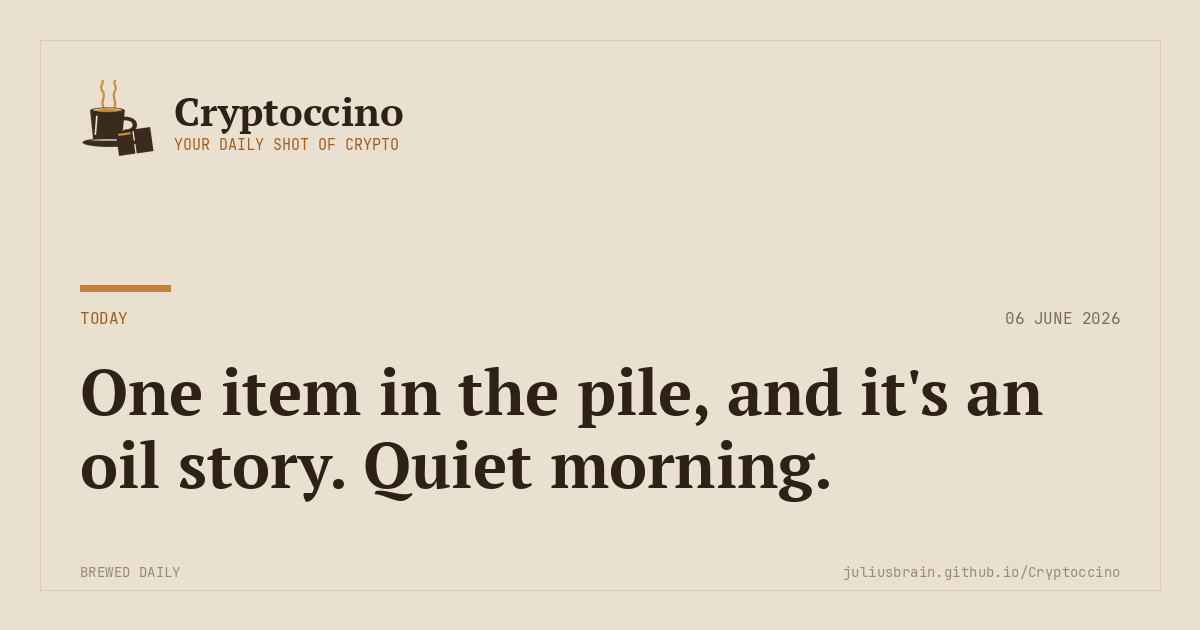
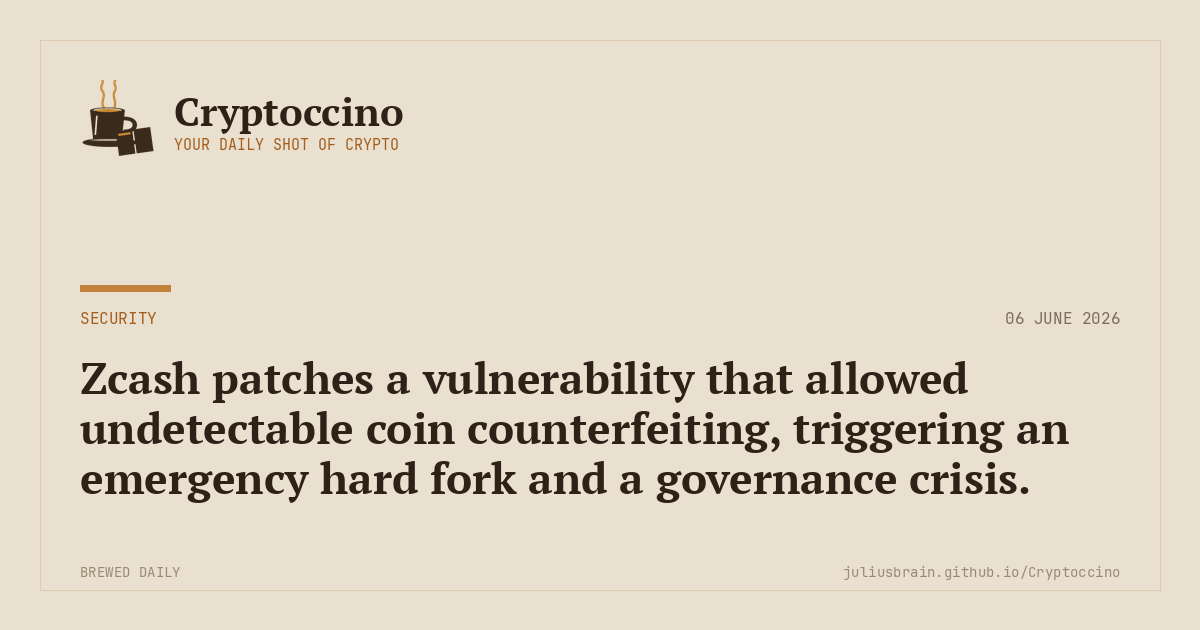
Recover today's rich issue + prevent second-run overwrite
What happened: two daily-brew runs fired today. The first (04:55
UTC, manual trigger) produced a rich issue — lead, 4 beats with
12 items, 5 brewing — and marked 71 items as seen. The second
(05:17 UTC, cron-job.org test trigger) found only 1 new item in
the 22-minute gap, curated a thin "One item in the pile" issue,
and overwrote both the post and the hero card.

Recovery:
- _posts/2026-06-06-cryptoccino.md restored from commit 2d7285b.
- assets/cards/2026-06-06.png restored from the same commit.

Prevention:
- pipeline/run.py main() now bails immediately if today's post
  already exists on disk, logging "first-run-wins". A second
  trigger (cron-job.org + manual + GitHub schedule racing) becomes
  a no-op rather than overwriting an earlier rich issue with a
  thinner one curated from the few items that landed since.
- TestEarlyExit.test_skips_when_todays_post_already_exists covers
  the new guard. test_rerun_is_idempotent updated to check the new
  "first-run-wins" log line (was "Nothing new today" from the
  filter-empty path, which now isn't reached on a same-day rerun).

118 tests pass (was 117).

Changed region(s): [[0.0617, 0.573, 0.8942, 0.8143], [0.0617, 0.4825, 0.1233, 0.5127]]

diff --git a/tests/integration/test_run.py b/tests/integration/test_run.py
@@ -121,6 +121,32 @@ class TestEarlyExit:
         assert "Nothing new today" in caplog.text
         assert list(posts_dir.glob("*.md")) == []
 
+    def test_skips_when_todays_post_already_exists(
+        self, fresh_db, posts_dir, monkeypatch, caplog
+    ):
+        # Drop a stub post for today on disk — simulates a previous run
+        # having already written one. The second run must no-op rather
+        # than overwriting it.
+        import datetime as dt
+        today_post = posts_dir / f"{dt.date.today().isoformat()}-cryptoccino.md"
+        today_post.write_text("already published")
+
+        boom = MagicMock(side_effect=AssertionError("must not be called"))
+        monkeypatch.setattr(run_mod, "fetch_feeds", boom)
+        monkeypatch.setattr(run_mod, "filter_new", boom)
+        monkeypatch.setattr(run_mod, "curate", boom)
+        monkeypatch.setattr(run_mod, "fetch_prices", boom)
+        monkeypatch.setattr(run_mod, "render_post", boom)
+        monkeypatch.setattr(run_mod, "mark_seen", boom)
+
+        caplog.set_level(logging.INFO)
+        run_mod.main()
+
+        assert "first-run-wins" in caplog.text
+        # Stub content untouched.
+        assert today_post.read_text() == "already published"
+        boom.assert_not_called()
+
 
 class TestHappyPath:
     def test_writes_post_with_expected_sections(
@@ -155,16 +181,18 @@ class TestHappyPath:
         _stub_externals(monkeypatch, [SAMPLE_ITEM])
         run_mod.main()
 
-        # Second run: items already seen, must early-exit.
+        # Second run on the same day: today's post already on disk,
+        # must early-exit via the first-run-wins guard before fetch.
         caplog.clear()
         boom = MagicMock(side_effect=AssertionError("must not be called"))
+        monkeypatch.setattr(run_mod, "fetch_feeds", boom)
         monkeypatch.setattr(run_mod, "curate", boom)
         monkeypatch.setattr(run_mod, "render_post", boom)
         monkeypatch.setattr(run_mod, "fetch_prices", boom)
         caplog.set_level(logging.INFO)
         run_mod.main()
 
-        assert "Nothing new today" in caplog.text
+        assert "first-run-wins" in caplog.text
 
 
 class TestMarketsResilience:

diff --git a/pipeline/run.py b/pipeline/run.py
@@ -30,7 +30,19 @@ FEEDS_CONFIG = Path("config/feeds.yaml")
 
 
 def main():
-    """Run one full daily cycle and write today's Jekyll post."""
+    """Run one full daily cycle and write today's Jekyll post.
+
+    First-run-wins per day: if today's post already exists on disk, the
+    run is a no-op. Guards against a second trigger on the same day
+    (cron-job.org + manual + GitHub schedule races) overwriting a rich
+    earlier issue with a thinner one curated from the few items that
+    happened to land in between.
+    """
+    today_post = Path("_posts") / f"{date.today().isoformat()}-cryptoccino.md"
+    if today_post.exists():
+        logger.info("%s already exists, skipping run (first-run-wins).", today_post)
+        return
+
     logger.info("Initialising seen-state DB.")
     init_db()
 

diff --git a/_posts/2026-06-06-cryptoccino.md b/_posts/2026-06-06-cryptoccino.md
@@ -3,41 +3,91 @@ layout: issue
 title: "Cryptoccino — Saturday 06 June 2026"
 date: 2026-06-06
 issue_date: 2026-06-06
-description: "One item in the pile, and it's an oil story. Quiet morning."
+description: "Bitcoin under $60k, Zcash had a counterfeiting bug, and the tax bills are queuing up. Espresso warranted."
 card: /assets/cards/2026-06-06.png
 ---
 
 <div class="pour-band" markdown="1">
 
-> **The Pour.** One item in the pile, and it's an oil story. Quiet morning.
+> **The Pour.** Bitcoin under $60k, Zcash had a counterfeiting bug, and the tax bills are queuing up. Espresso warranted.
 >
-> **Today.** Crude stockpiles at a two-decade low as Iran tensions simmer _Markets_ · Nothing on the Security Desk today _Security Desk_ · Nothing in Projects & Money today _Projects & Money_.
+> **Today.** Bitcoin breaks below $60k on strong jobs data as Zcash fallout shakes confidence _Markets_ · Zcash emergency hard fork after critical undetectable counterfeiting vulnerability disclosed _Security Desk_ · Securitize clears SEC registration hurdle, setting NYSE listing path as SECZ _Projects & Money_.
 {: .pour}
 
 <section class="prices">
   <p class="prices-label">Prices</p>
   <ul class="chips">
-    <li class="chip"><span class="chip-left"><span class="ticker">BTC</span><span class="price">$59,980</span></span><span class="chip-right"><span class="change down">−5.2%</span><svg class="spark" viewBox="0 0 82 24" width="82" height="24" preserveAspectRatio="none"><polyline fill="none" stroke="#B14A33" stroke-width="1.5" stroke-linecap="round" stroke-linejoin="round" points="1.0,1.9 3.8,1.9 6.5,1.9 9.3,1.4 12.0,1.5 14.8,1.0 17.6,1.5 20.3,1.8 23.1,1.7 25.8,1.6 28.6,2.9 31.3,4.8 34.1,4.9 36.9,5.3 39.6,7.1 42.4,8.6 45.1,11.0 47.9,12.0 50.7,12.5 53.4,11.3 56.2,13.1 58.9,13.6 61.7,15.7 64.4,16.7 67.2,16.3 70.0,16.7 72.7,17.1 75.5,17.7 78.2,19.2 81.0,23.0"/><circle cx="81.0" cy="23.0" r="1.8" fill="#B14A33"/></svg></span></li>
-    <li class="chip"><span class="chip-left"><span class="ticker">ETH</span><span class="price">$1,521</span></span><span class="chip-right"><span class="change down">−12.0%</span><svg class="spark" viewBox="0 0 82 24" width="82" height="24" preserveAspectRatio="none"><polyline fill="none" stroke="#B14A33" stroke-width="1.5" stroke-linecap="round" stroke-linejoin="round" points="1.0,1.8 3.8,1.8 6.5,1.8 9.3,1.3 12.0,1.5 14.8,1.0 17.6,1.5 20.3,2.1 23.1,2.2 25.8,2.0 28.6,3.3 31.3,4.0 34.1,2.3 36.9,2.7 39.6,3.4 42.4,3.6 45.1,6.1 47.9,9.0 50.7,9.4 53.4,7.8 56.2,10.2 58.9,9.6 61.7,11.3 64.4,12.9 67.2,12.9 70.0,12.9 72.7,13.8 75.5,17.4 78.2,18.2 81.0,23.0"/><circle cx="81.0" cy="23.0" r="1.8" fill="#B14A33"/></svg></span></li>
-    <li class="chip"><span class="chip-left"><span class="ticker">BNB</span><span class="price">$563</span></span><span class="chip-right"><span class="change down">−5.6%</span><svg class="spark" viewBox="0 0 82 24" width="82" height="24" preserveAspectRatio="none"><polyline fill="none" stroke="#B14A33" stroke-width="1.5" stroke-linecap="round" stroke-linejoin="round" points="1.0,12.3 3.8,9.8 6.5,8.9 9.3,4.3 12.0,3.3 14.8,1.0 17.6,2.8 20.3,2.7 23.1,4.1 25.8,4.5 28.6,6.8 31.3,7.5 34.1,5.9 36.9,6.6 39.6,7.6 42.4,8.5 45.1,9.8 47.9,11.8 50.7,13.7 53.4,13.0 56.2,14.7 58.9,14.6 61.7,15.9 64.4,18.0 67.2,17.8 70.0,17.7 72.7,18.1 75.5,19.4 78.2,19.5 81.0,23.0"/><circle cx="81.0" cy="23.0" r="1.8" fill="#B14A33"/></svg></span></li>
-    <li class="chip"><span class="chip-left"><span class="ticker">SOL</span><span class="price">$60.88</span></span><span class="chip-right"><span class="change down">−9.9%</span><svg class="spark" viewBox="0 0 82 24" width="82" height="24" preserveAspectRatio="none"><polyline fill="none" stroke="#B14A33" stroke-width="1.5" stroke-linecap="round" stroke-linejoin="round" points="1.0,2.0 3.8,1.7 6.5,2.0 9.3,1.4 12.0,1.7 14.8,1.0 17.6,1.5 20.3,2.4 23.1,2.5 25.8,1.6 28.6,3.5 31.3,4.6 34.1,3.2 36.9,3.5 39.6,5.1 42.4,5.7 45.1,8.0 47.9,11.1 50.7,11.2 53.4,9.5 56.2,12.5 58.9,12.5 61.7,14.0 64.4,16.4 67.2,15.8 70.0,17.0 72.7,17.2 75.5,19.8 78.2,20.4 81.0,23.0"/><circle cx="81.0" cy="23.0" r="1.8" fill="#B14A33"/></svg></span></li>
-    <li class="chip"><span class="chip-left"><span class="ticker">XRP</span><span class="price">$1.06</span></span><span class="chip-right"><span class="change down">−6.6%</span><svg class="spark" viewBox="0 0 82 24" width="82" height="24" preserveAspectRatio="none"><polyline fill="none" stroke="#B14A33" stroke-width="1.5" stroke-linecap="round" stroke-linejoin="round" points="1.0,1.0 3.8,1.2 6.5,1.7 9.3,1.1 12.0,1.7 14.8,1.3 17.6,1.9 20.3,2.6 23.1,2.6 25.8,2.5 28.6,4.9 31.3,5.7 34.1,5.1 36.9,6.0 39.6,7.9 42.4,8.1 45.1,10.4 47.9,12.6 50.7,12.3 53.4,10.0 56.2,11.8 58.9,11.9 61.7,12.8 64.4,16.0 67.2,15.9 70.0,15.7 72.7,17.1 75.5,18.8 78.2,20.4 81.0,23.0"/><circle cx="81.0" cy="23.0" r="1.8" fill="#B14A33"/></svg></span></li>
-    <li class="chip"><span class="chip-left"><span class="ticker">DOGE</span><span class="price">$0.0785</span></span><span class="chip-right"><span class="change down">−9.0%</span><svg class="spark" viewBox="0 0 82 24" width="82" height="24" preserveAspectRatio="none"><polyline fill="none" stroke="#B14A33" stroke-width="1.5" stroke-linecap="round" stroke-linejoin="round" points="1.0,2.4 3.8,1.2 6.5,1.7 9.3,1.0 12.0,1.9 14.8,1.3 17.6,1.9 20.3,2.6 23.1,2.8 25.8,1.4 28.6,2.8 31.3,3.4 34.1,2.1 36.9,1.7 39.6,3.3 42.4,3.9 45.1,7.0 47.9,10.2 50.7,10.3 53.4,8.5 56.2,10.5 58.9,10.0 61.7,11.5 64.4,14.2 67.2,13.8 70.0,14.3 72.7,15.2 75.5,18.1 78.2,19.8 81.0,23.0"/><circle cx="81.0" cy="23.0" r="1.8" fill="#B14A33"/></svg></span></li>
+    <li class="chip"><span class="chip-left"><span class="ticker">BTC</span><span class="price">$60,189</span></span><span class="chip-right"><span class="change down">−5.0%</span><svg class="spark" viewBox="0 0 82 24" width="82" height="24" preserveAspectRatio="none"><polyline fill="none" stroke="#B14A33" stroke-width="1.5" stroke-linecap="round" stroke-linejoin="round" points="1.0,1.9 3.8,1.9 6.5,1.9 9.3,1.4 12.0,1.5 14.8,1.0 17.6,1.5 20.3,1.8 23.1,1.7 25.8,1.6 28.6,2.9 31.3,4.8 34.1,4.9 36.9,5.3 39.6,7.1 42.4,8.6 45.1,11.0 47.9,12.0 50.7,12.5 53.4,11.3 56.2,13.1 58.9,13.6 61.7,15.7 64.4,16.7 67.2,16.3 70.0,16.7 72.7,17.1 75.5,17.7 78.2,19.2 81.0,23.0"/><circle cx="81.0" cy="23.0" r="1.8" fill="#B14A33"/></svg></span></li>
+    <li class="chip"><span class="chip-left"><span class="ticker">ETH</span><span class="price">$1,526</span></span><span class="chip-right"><span class="change down">−12.2%</span><svg class="spark" viewBox="0 0 82 24" width="82" height="24" preserveAspectRatio="none"><polyline fill="none" stroke="#B14A33" stroke-width="1.5" stroke-linecap="round" stroke-linejoin="round" points="1.0,1.8 3.8,1.8 6.5,1.8 9.3,1.3 12.0,1.5 14.8,1.0 17.6,1.5 20.3,2.1 23.1,2.2 25.8,2.0 28.6,3.3 31.3,4.0 34.1,2.3 36.9,2.7 39.6,3.4 42.4,3.6 45.1,6.1 47.9,9.0 50.7,9.4 53.4,7.8 56.2,10.2 58.9,9.6 61.7,11.3 64.4,12.9 67.2,12.9 70.0,12.9 72.7,13.8 75.5,17.4 78.2,18.2 81.0,23.0"/><circle cx="81.0" cy="23.0" r="1.8" fill="#B14A33"/></svg></span></li>
+    <li class="chip"><span class="chip-left"><span class="ticker">BNB</span><span class="price">$567</span></span><span class="chip-right"><span class="change down">−5.6%</span><svg class="spark" viewBox="0 0 82 24" width="82" height="24" preserveAspectRatio="none"><polyline fill="none" stroke="#B14A33" stroke-width="1.5" stroke-linecap="round" stroke-linejoin="round" points="1.0,12.3 3.8,9.8 6.5,8.9 9.3,4.3 12.0,3.3 14.8,1.0 17.6,2.8 20.3,2.7 23.1,4.1 25.8,4.5 28.6,6.8 31.3,7.5 34.1,5.9 36.9,6.6 39.6,7.6 42.4,8.5 45.1,9.8 47.9,11.8 50.7,13.7 53.4,13.0 56.2,14.7 58.9,14.6 61.7,15.9 64.4,18.0 67.2,17.8 70.0,17.7 72.7,18.1 75.5,19.4 78.2,19.5 81.0,23.0"/><circle cx="81.0" cy="23.0" r="1.8" fill="#B14A33"/></svg></span></li>
+    <li class="chip"><span class="chip-left"><span class="ticker">SOL</span><span class="price">$61.03</span></span><span class="chip-right"><span class="change down">−9.9%</span><svg class="spark" viewBox="0 0 82 24" width="82" height="24" preserveAspectRatio="none"><polyline fill="none" stroke="#B14A33" stroke-width="1.5" stroke-linecap="round" stroke-linejoin="round" points="1.0,2.0 3.8,1.7 6.5,2.0 9.3,1.4 12.0,1.7 14.8,1.0 17.6,1.5 20.3,2.4 23.1,2.5 25.8,1.6 28.6,3.5 31.3,4.6 34.1,3.2 36.9,3.5 39.6,5.1 42.4,5.7 45.1,8.0 47.9,11.1 50.7,11.2 53.4,9.5 56.2,12.5 58.9,12.5 61.7,14.0 64.4,16.4 67.2,15.8 70.0,17.0 72.7,17.2 75.5,19.8 78.2,20.4 81.0,23.0"/><circle cx="81.0" cy="23.0" r="1.8" fill="#B14A33"/></svg></span></li>
+    <li class="chip"><span class="chip-left"><span class="ticker">XRP</span><span class="price">$1.06</span></span><span class="chip-right"><span class="change down">−7.4%</span><svg class="spark" viewBox="0 0 82 24" width="82" height="24" preserveAspectRatio="none"><polyline fill="none" stroke="#B14A33" stroke-width="1.5" stroke-linecap="round" stroke-linejoin="round" points="1.0,1.0 3.8,1.2 6.5,1.7 9.3,1.1 12.0,1.7 14.8,1.3 17.6,1.9 20.3,2.6 23.1,2.6 25.8,2.5 28.6,4.9 31.3,5.7 34.1,5.1 36.9,6.0 39.6,7.9 42.4,8.1 45.1,10.4 47.9,12.6 50.7,12.3 53.4,10.0 56.2,11.8 58.9,11.9 61.7,12.8 64.4,16.0 67.2,15.9 70.0,15.7 72.7,17.1 75.5,18.8 78.2,20.4 81.0,23.0"/><circle cx="81.0" cy="23.0" r="1.8" fill="#B14A33"/></svg></span></li>
+    <li class="chip"><span class="chip-left"><span class="ticker">DOGE</span><span class="price">$0.0787</span></span><span class="chip-right"><span class="change down">−9.1%</span><svg class="spark" viewBox="0 0 82 24" width="82" height="24" preserveAspectRatio="none"><polyline fill="none" stroke="#B14A33" stroke-width="1.5" stroke-linecap="round" stroke-linejoin="round" points="1.0,2.4 3.8,1.2 6.5,1.7 9.3,1.0 12.0,1.9 14.8,1.3 17.6,1.9 20.3,2.6 23.1,2.8 25.8,1.4 28.6,2.8 31.3,3.4 34.1,2.1 36.9,1.7 39.6,3.3 42.4,3.9 45.1,7.0 47.9,10.2 50.7,10.3 53.4,8.5 56.2,10.5 58.9,10.0 61.7,11.5 64.4,14.2 67.2,13.8 70.0,14.3 72.7,15.2 75.5,18.1 78.2,19.8 81.0,23.0"/><circle cx="81.0" cy="23.0" r="1.8" fill="#B14A33"/></svg></span></li>
   </ul>
 </section>
 
 </div>
 
+<section class="lead" markdown="1">
+
+**SECURITY**
+{: .kicker}
+
+## Zcash patches a vulnerability that allowed undetectable coin counterfeiting, triggering an emergency hard fork and a governance crisis.
+
+[`cryptobriefing`](https://cryptobriefing.com/zcash-governance-concerns-emergency-hard-fork/) [`decrypt`](https://decrypt.co/370184/zcash-crash-wiped-billions-market-cap-can-zec-recover) [`decrypt`](https://decrypt.co/370223/zcash-bug-crisis-shows-privacy-cuts-both-ways-experts-say) [`theblock`](https://www.theblock.co/post/403839/zcash-treasury-cypherpunk-remains-committed-accumulating-5-zec-supply)
+{: .sources}
+
+**What happened.** A critical flaw in Zcash's shielded transaction protocol was disclosed and patched via an emergency hard fork. The bug allowed an attacker to mint ZEC undetectably, exploiting the very privacy guarantees that define the network. ZEC's price cratered on the news, wiping billions from its market cap, and Cypherpunk Technologies, a listed Zcash treasury company, saw its shares fall more than 40%.
+
+**Why it matters.** The incident exposes a fundamental tension in privacy coin design: the same cryptographic opacity that shields users also shields any inflation or counterfeiting from on-chain verification. Experts are flagging that the attack class is not unique to Zcash, and that banks and other institutions building on zero-knowledge infrastructure face analogous audit blind spots. The governance fallout compounds the damage, with questions about how long the flaw was known and who approved the hard fork.
+
+**The catch.** Cypherpunk is publicly insisting it will press ahead with accumulating 5% of ZEC supply, calling the sell-off FUD, but its credibility depends heavily on whether the governance process around the patch holds up to scrutiny. The emergency decision-making structure that pushed through the fix is now drawing its own criticism as overly centralised for a project whose identity is built on trustless privacy.
+
+</section>
+
 <img class="section-card" src="{{ "/assets/cards/2026-06-06-the_tape.png" | relative_url }}" alt="Markets">
 
-> **US crude inventories at their lowest since 2004.** Stockpiles have drawn down sharply against a backdrop of rising Iran-related geopolitical risk, tightening the physical oil market. Sustained supply pressure at this level tends to feed through into energy costs broadly, which historically drags on risk appetite across macro-sensitive assets including crypto. [`cryptobriefing`](https://cryptobriefing.com/us-crude-stockpiles-hit-lowest-level-since-2004-amid-iran-tensions/)
+> **Bitcoin breaks below $60,000 for the first time since 2024.** A stronger-than-expected US jobs print pushed risk assets lower across the board, with Bitcoin falling more than 50% from its October peak. Memecoins DOGE and SHIB dropped roughly 9%, amplifying the broader drawdown. The Zcash vulnerability disclosure added a confidence shock on top of the macro pressure. [`decrypt`](https://decrypt.co/370120/bitcoin-dives-below-60k-first-time-2024-zcash-crash) [`coindesk`](https://www.coindesk.com/markets/2026/06/05/memecoins-dogecoin-shiba-inu-dive-9-as-bitcoin-nears-usd60-000)
+
+> **Bitcoin treasury companies collectively shed $62 billion in value this week.** Strategy shares hit a four-month low and its STRC preferred stock came under pressure alongside the BTC slide. Bitmine and other leveraged treasury vehicles saw paper gains evaporate, with Hyperliquid's treasury standing as the lone exception in profit across the cohort. [`cryptobriefing`](https://cryptobriefing.com/bitcoin-treasury-companies-lose-62b/) [`decrypt`](https://decrypt.co/370229/strategy-shares-fall-4-month-low-strc-dips-bitcoin-sinks-under-60k) [`theblock`](https://www.theblock.co/post/403855/hype-treasuries-alone-profit-legacy-crypto-dats-bleed-billions)
+
+> **BlackRock picked up $47 million in Bitcoin into the dip.** The purchase came against a backdrop of broad market fear, reinforcing the institutional pattern of treating sharp corrections as accumulation windows. ETF flow data for the broader session is still pending, but the directional signal from the world's largest asset manager will be watched closely. [`cryptobriefing`](https://cryptobriefing.com/blackrock-buys-bitcoin-market-fear/)
+
+> **ADA trades at four-year lows below $0.20 as social activity spikes.** The divergence between rising chatter and falling price is a familiar pattern at local bottoms, though it can equally mark capitulation. Cardano has now given back essentially all gains accumulated during the 2024 bull cycle. [`coindesk`](https://www.coindesk.com/markets/2026/06/06/cardano-social-activity-surges-as-ada-falls-under-20-cents-to-four-year-lows)
+
+<img class="section-card" src="{{ "/assets/cards/2026-06-06-projects_money.png" | relative_url }}" alt="Projects & Money">
+
+> **Securitize clears its SEC registration statement, opening the path to NYSE listing.** The BlackRock-backed tokenisation firm will trade as SECZ following a SPAC merger that requires a shareholder vote expected later this month. The listing would make Securitize the first major real-world asset tokenisation platform to trade on a major US exchange. [`coindesk`](https://www.coindesk.com/business/2026/06/05/blackrock-backed-tokenization-firm-securitize-clears-key-hurdle-to-go-public-on-nyse) [`theblock`](https://www.theblock.co/post/403842/securitize-clears-sec-registration-statement-hurdle-sets-path-to-nyse-listing-as-secz)
+
+> **BitMine prices preferred shares with a 9.5% dividend in an upsized offering.** Tom Lee's Ethereum treasury vehicle is lifting the Strategy preferred-share playbook and applying it to ETH accumulation. The offering is designed to fund further ETH purchases, adding another leveraged corporate bet on ether at a notably weak moment for prices. [`decrypt`](https://decrypt.co/370188/tom-lees-ethereum-treasury-bitmine-prices-preferred-shares)
+
+> **Visa and Brale are exploring private stablecoin settlement via SBC on the Canton Network.** The pair are testing whether Canton's privacy-preserving infrastructure can support institutional stablecoin flows without exposing counterparty data on a public ledger. It is an early signal that enterprise settlement is moving toward purpose-built privacy rails rather than public chains. [`cryptobriefing`](https://cryptobriefing.com/visa-brale-sbc-stablecoin-canton-network/)
+
+> **Crypto Council for Innovation launches a vault-focused regulatory coalition.** The coalition is targeting DeFi vaults specifically, pushing for a defined regulatory framework around deposit-and-yield mechanisms that have so far operated in a grey zone. With stablecoin and market-structure legislation advancing, vaults are the next contested surface area. [`theblock`](https://www.theblock.co/post/403829/crypto-council-for-innovation-launches-coalition-to-push-for-regulatory-clarity-on-vaults)
+
+<img class="section-card" src="{{ "/assets/cards/2026-06-06-security_desk.png" | relative_url }}" alt="Security Desk">
+
+> **TrustedVolumes, a 1inch Fusion resolver, lost $6.7 million in an exploit.** 1inch confirmed its core protocols and user funds were untouched; the breach was isolated to TrustedVolumes as an independent resolver operating within the Fusion ecosystem. A bug bounty has been floated. [`cointelegraph_defi`](https://cointelegraph.com/news/1inch-fusion-resolver-trusted-volumes-floats-bounty-after-67m-exploit)
+
+> **AI tooling surfaced a critical flaw in a major crypto network, with warnings the class of vulnerability extends to banks.** The disclosure underlines that AI-assisted code auditing is now a real threat-surface accelerant, capable of finding flaws at a pace human auditors cannot match. Security researchers are urging financial institutions building on similar cryptographic primitives to audit urgently. [`coindesk`](https://www.coindesk.com/tech/2026/06/05/ai-exposed-a-massive-flaw-in-top-crypto-network-and-experts-warn-banks-could-be-next)
+
+<img class="section-card" src="{{ "/assets/cards/2026-06-06-on_the_hill.png" | relative_url }}" alt="On the Hill">
+
+> **Seven crypto tax bills circulated ahead of a House Ways and Means Committee hearing on Tuesday.** The package covers de minimis reporting exemptions for small transactions, broker definitions, and treatment of staking rewards. It is the first time congressional leadership has formally scheduled crypto tax legislation for deliberation, marking a shift from informal discussion to active drafting. [`decrypt`](https://decrypt.co/370197/congress-7-crypto-tax-bills) [`cointelegraph_regulation`](https://cointelegraph.com/news/crypto-tax-bills-house-ways-means-hearing) [`theblock`](https://www.theblock.co/post/403851/next-up-taxes-crypto-tax-legislation-circulated-ahead-of-house-ways-and-means-committee-hearing-next-week)
+
+> **Illinois is one signature away from a 0.2% crypto transaction tax becoming state law.** The levy, embedded in the FY2027 budget passed by Illinois lawmakers, places collection responsibility on registered brokers rather than end users. It is the most concrete state-level crypto tax action in the current cycle and will be watched as a template or cautionary tale by other states. [`cointelegraph_regulation`](https://cointelegraph.com/news/cryptocurrency-tax-illinois-fy2027-budget-law)
 
 ## What else is grinding?
 {: .brewing-label}
 
-- Worth watching whether a crude spike filters into CPI expectations and shifts Fed rate-cut pricing, which has been a reliable headwind for BTC in prior inflation flare-ups. [`cryptobriefing`](https://cryptobriefing.com/us-crude-stockpiles-hit-lowest-level-since-2004-amid-iran-tensions/)
+- Forward Industries moved $32 million in SOL to Coinbase Prime after a month of dormancy, raising questions about intent. [`cryptobriefing`](https://cryptobriefing.com/forward-industries-sol-coinbase-prime-deposit/)
+- Decibel Trade has launched onchain perpetual futures for SPY, QQQ, and EWY, bringing major TradFi index exposure to 24/7 DeFi rails. [`cryptobriefing`](https://cryptobriefing.com/decibel-trade-onchain-perps-spy-qqq-ewy/)
+- Unitas Labs launched XGLD, a yield-bearing gold asset on BNB Chain, stacking DeFi returns on top of a commodity peg. [`cryptobriefing`](https://cryptobriefing.com/unitas-labs-xgld-gold-bnb-chain/)
+- US officials are reportedly in early discussions about taking government equity stakes in OpenAI and Anthropic. [`cryptobriefing`](https://cryptobriefing.com/us-government-equity-stakes-openai-anthropic/)
+- Bitcoin purists are publicly shrugging at the sub-$60k print, arguing the drawdown vindicates their case against leveraged corporate treasury accumulation strategies. [`coindesk`](https://www.coindesk.com/markets/2026/06/05/why-diehard-bitcoin-purists-aren-t-sweating-the-massive-price-crash-that-wiped-out-usd200-billion)
 
 ---
 
-> **Last sip.** Iran tensions and a two-decade crude low — whether that stays a macro footnote or becomes the story depends on the next 48 hours in the Strait.
+> **Last sip.** The Zcash hard fork is patched, the governance questions are not.
 {: .last-sip}